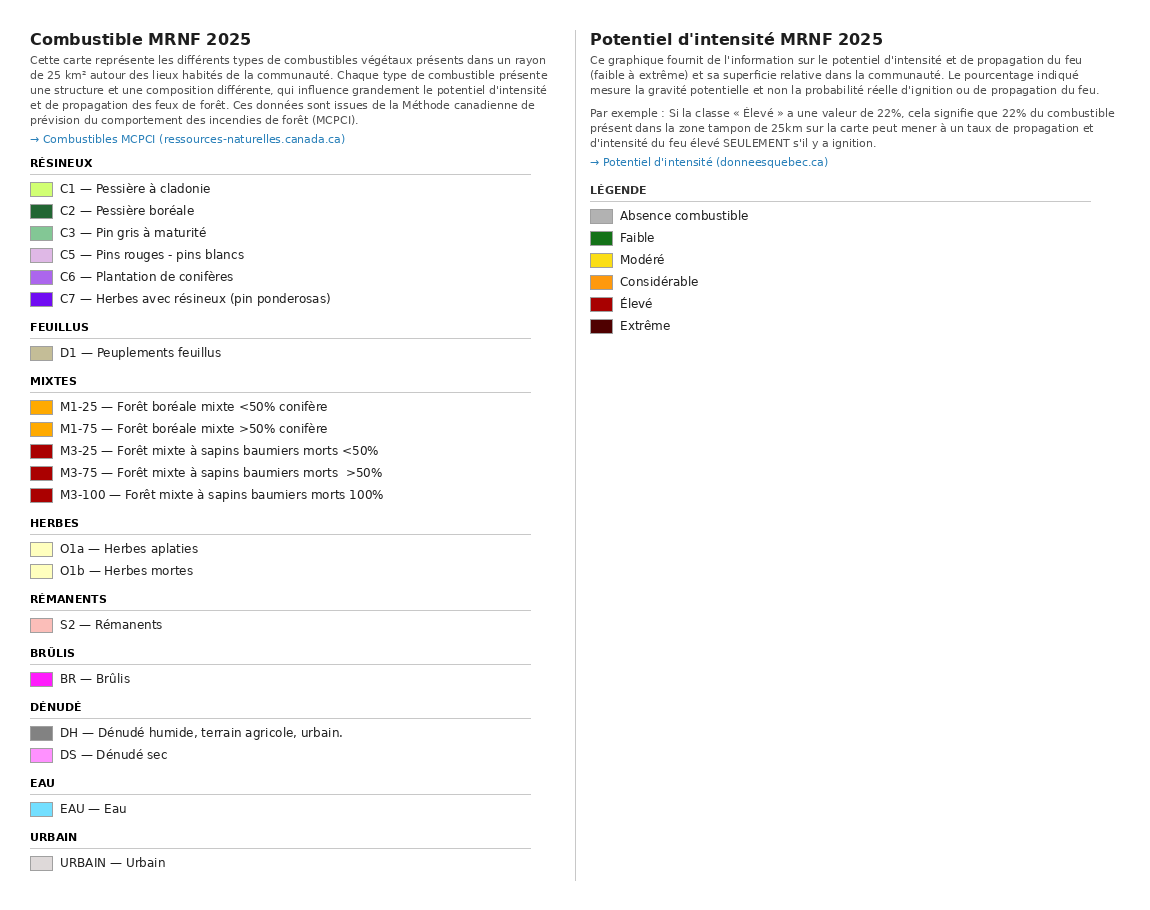
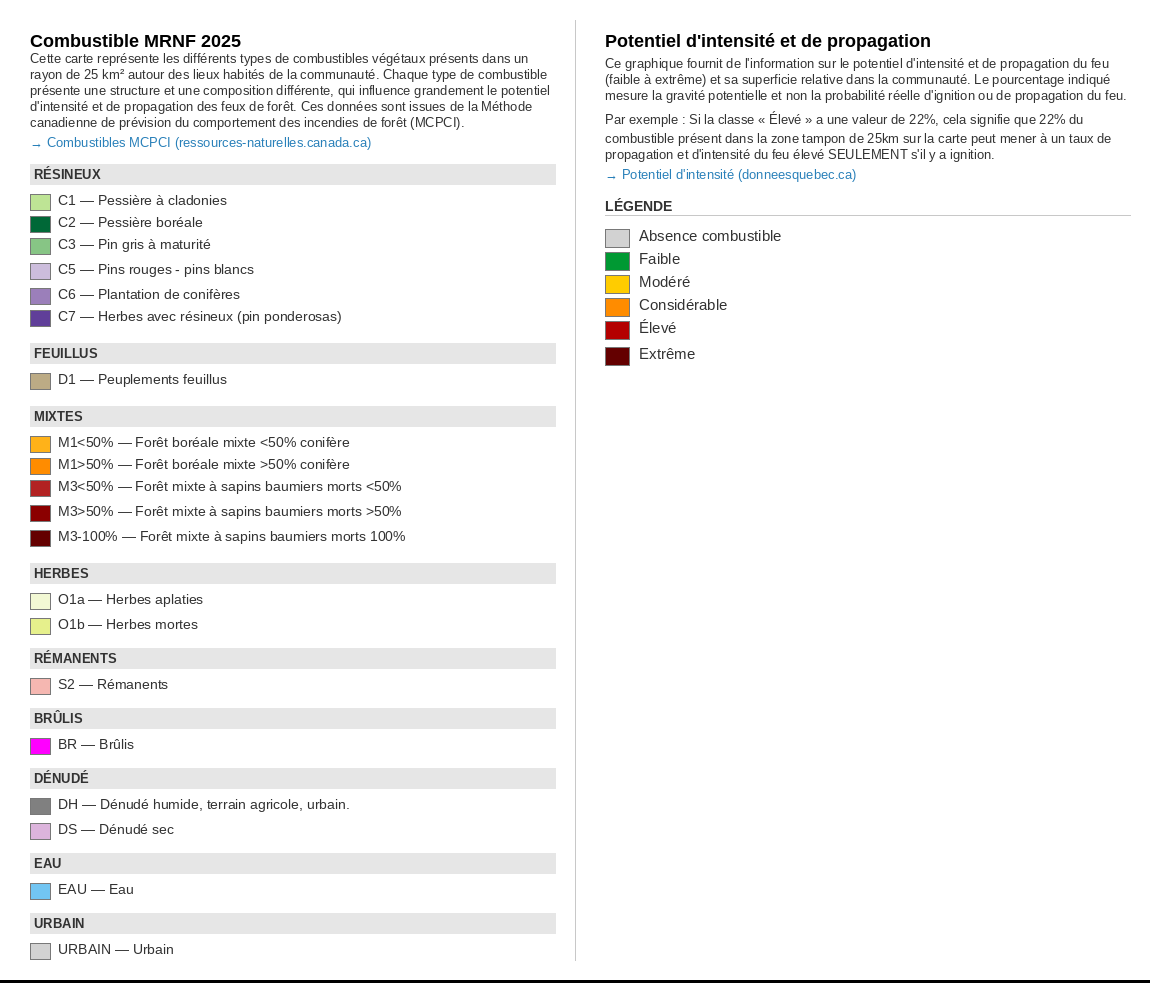
Mise à jour légende + ressources utiles

Changed region(s): [[0.0, 0.0308, 1.0, 1.0], [0.487, 0.0308, 0.9739, 0.3692]]

diff --git a/index.html b/index.html
@@ -738,6 +738,10 @@
           <a href="https://www.quebec.ca/securite-situations-urgence/urgences-sinistres-risques-naturels/quoi-faire-avant-pendant-apres-urgence-sinistre/feu-de-foret" target="_blank" rel="noopener">Gouvernement du Québec — Feux de forêt (quebec.ca)</a>
         </div>
         <div class="ressource-card">
+          <div class="res-label-lg">Atténuation des risques liés aux feux de forêt</div>
+          <a class="res-link" href="https://www.quebec.ca/agriculture-environnement-et-ressources-naturelles/forets/protection-forets/gestion-feux/attenuation-risques" target="_blank" rel="noopener">→ Consulter</a>
+        </div>
+        <div class="ressource-card">
           <div class="res-label-lg">Se préparer à un feu de forêt</div>
           <a class="res-link" href="https://www.quebec.ca/securite-situations-urgence/urgences-sinistres-risques-naturels/quoi-faire-avant-pendant-apres-urgence-sinistre/feu-de-foret/se-preparer" target="_blank" rel="noopener">→ Consulter</a>
         </div>
@@ -836,11 +840,11 @@
         <!-- Mixtes -->
         <div class="leg-section">
           <div class="leg-section-title">Mixtes</div>
-          <div class="leg-row"><div class="leg-swatch" style="background:#FFAA00;"></div><span>M1-25 — Forêt boréale mixte &lt;50% conifère</span></div>
-          <div class="leg-row"><div class="leg-swatch" style="background:#FFAA00;"></div><span>M1-75 — Forêt boréale mixte &gt;50% conifère</span></div>
-          <div class="leg-row"><div class="leg-swatch" style="background:#AA0000;"></div><span>M3-25 — Forêt mixte à sapins baumiers morts &lt;50%</span></div>
-          <div class="leg-row"><div class="leg-swatch" style="background:#AA0000;"></div><span>M3-75 — Forêt mixte à sapins baumiers morts  &gt;50%</span></div>
-          <div class="leg-row"><div class="leg-swatch" style="background:#AA0000;"></div><span>M3-100 — Forêt mixte à sapins baumiers morts 100%</span></div>
+          <div class="leg-row"><div class="leg-swatch" style="background:#FFAA00;"></div><span>M1&lt;50% — Forêt boréale mixte &lt;50% conifère</span></div>
+          <div class="leg-row"><div class="leg-swatch" style="background:#FFAA00;"></div><span>M1&gt;50% — Forêt boréale mixte &gt;50% conifère</span></div>
+          <div class="leg-row"><div class="leg-swatch" style="background:#AA0000;"></div><span>M3&lt;50% — Forêt mixte à sapins baumiers morts &lt;50%</span></div>
+          <div class="leg-row"><div class="leg-swatch" style="background:#AA0000;"></div><span>M3&gt;50% — Forêt mixte à sapins baumiers morts  &gt;50%</span></div>
+          <div class="leg-row"><div class="leg-swatch" style="background:#AA0000;"></div><span>M3-100% — Forêt mixte à sapins baumiers morts 100%</span></div>
         </div>
 
         <!-- Herbes -->
@@ -884,7 +888,7 @@
 
       <!-- Colonne droite : Potentiel d'intensité -->
       <div>
-        <div class="leg-col-title">Potentiel d'intensité MRNF 2025</div>
+        <div class="leg-col-title">Potentiel d'intensité et de propagation MRNF 2025</div>
         <div class="leg-col-intro">
           Ce graphique fournit de l'information sur le potentiel d'intensité et de propagation du feu (faible à extrême) et sa superficie relative dans la communauté. Le pourcentage indiqué mesure la gravité potentielle et non la probabilité réelle d'ignition ou de propagation du feu.<br/><br/>
           Par exemple : Si la classe « Élevé » a une valeur de 22%, cela signifie que 22% du combustible présent dans la zone tampon de 25km sur la carte peut mener à un taux de propagation et d'intensité du feu élevé SEULEMENT s'il y a ignition.<br/>